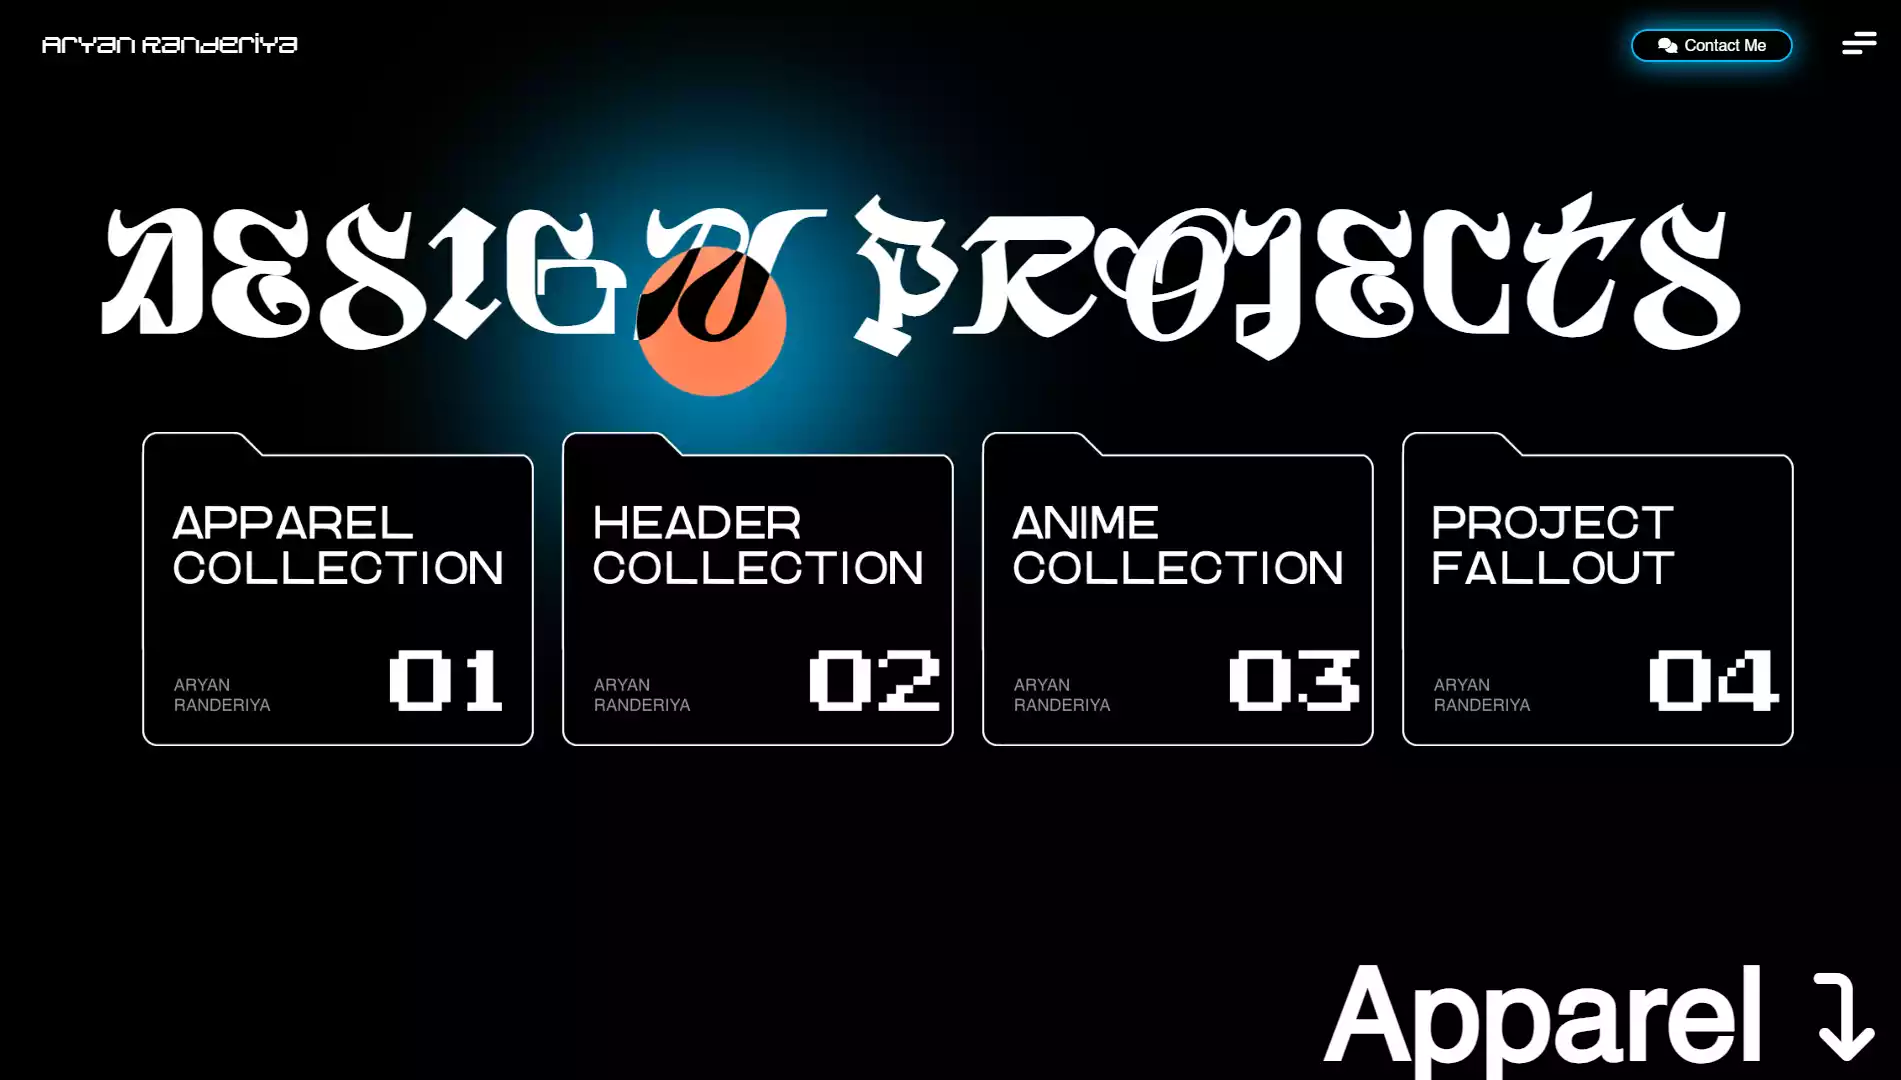
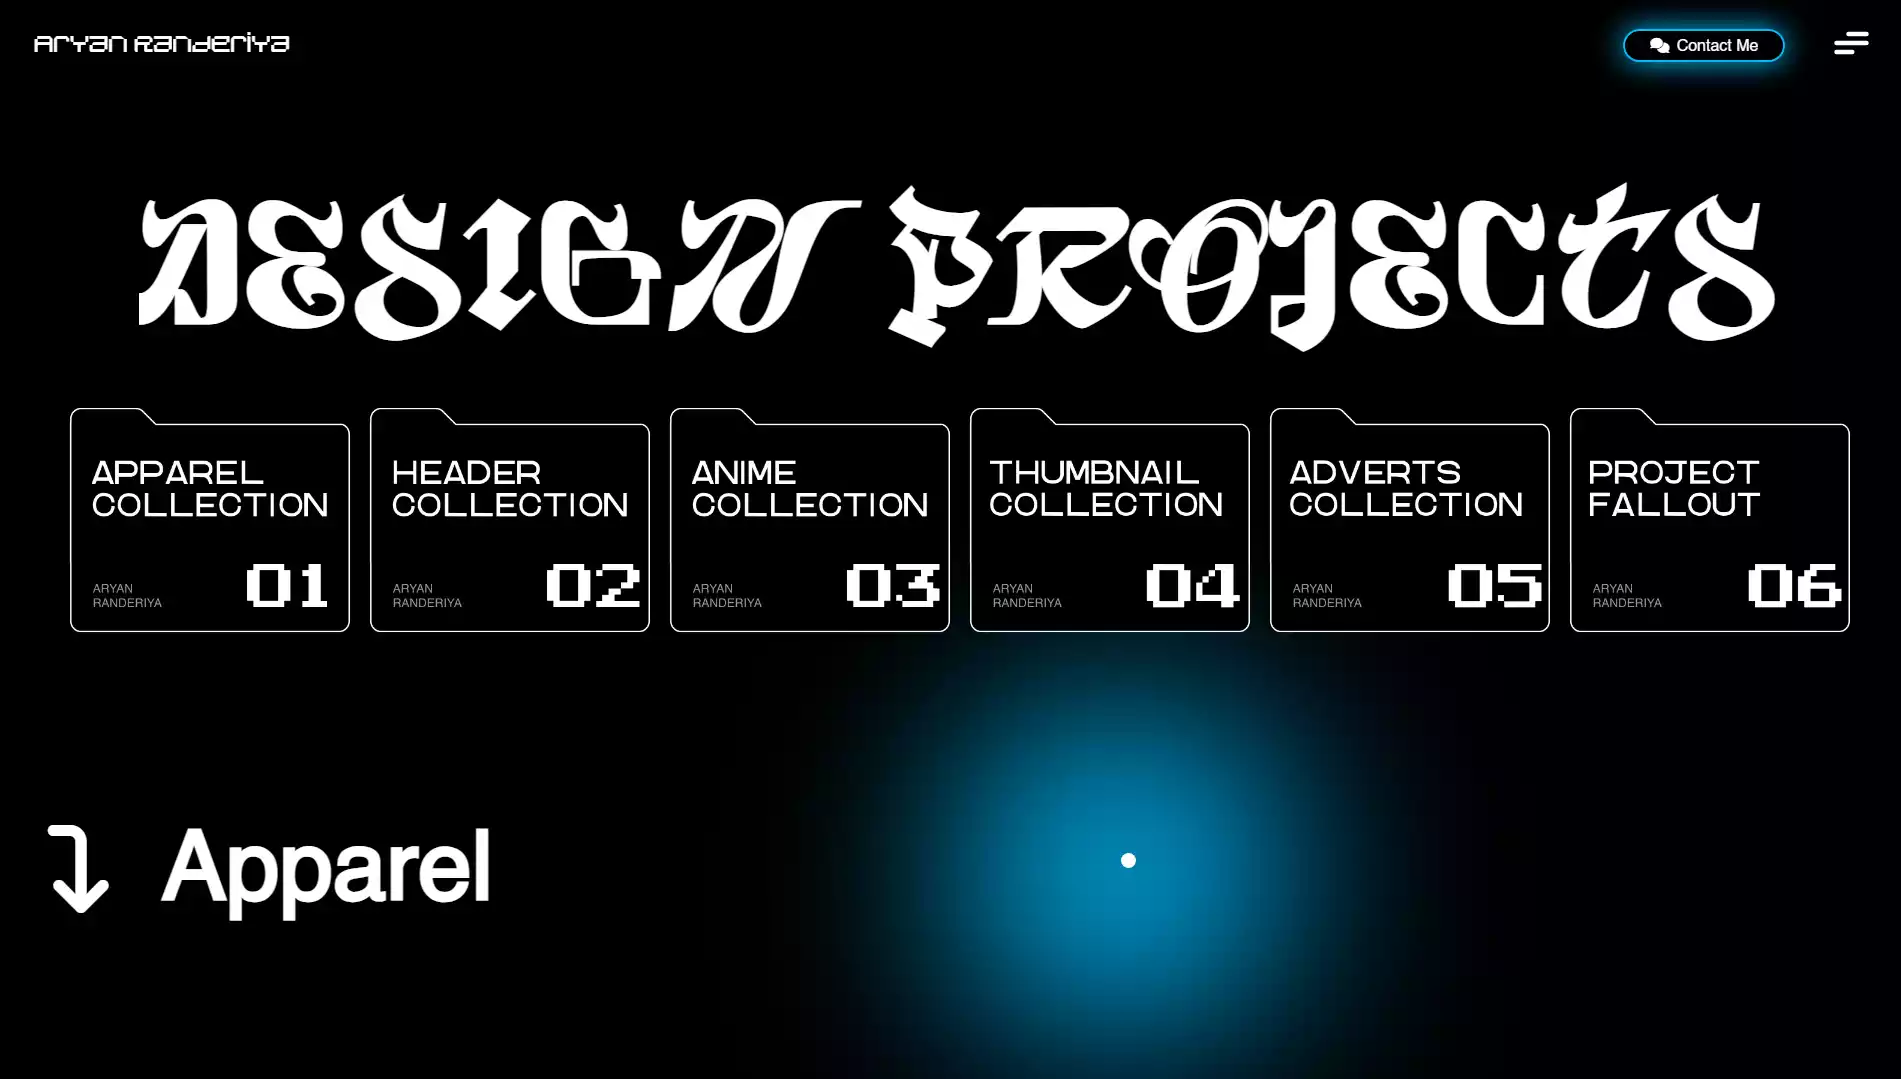
update 10 files

diff --git a/docs/contact.html b/docs/contact.html
@@ -16,7 +16,6 @@
     <script async src="https://cdnjs.cloudflare.com/ajax/libs/gsap/3.12.2/ScrollTrigger.min.js"></script>
     <script async src="https://cdnjs.cloudflare.com/ajax/libs/gsap/3.12.2/ScrollToPlugin.min.js"></script>
     <script async src="https://kit.fontawesome.com/2fafe620ef.js" crossorigin="anonymous"></script>
-    <script src="https://platform.linkedin.com/badges/js/profile.js" async defer type="text/javascript"></script>
 
     <link defer rel="stylesheet"
         href="https://fonts.googleapis.com/css2?family=Material+Symbols+Rounded:opsz,wght,FILL,GRAD@48,500,1,-25" />
@@ -109,7 +108,7 @@
                     <h5 class="social_text mail_text">aryan.k.randeriya@gmail.com</h5>
                 </a>
             </div>
-            
+
             <div class="social">
                 <span class="material-symbols-rounded icon">subdirectory_arrow_right</span>
                 <a href="https://www.linkedin.com/in/aryanranderiya">
@@ -256,6 +255,44 @@
 <script src="js/contact.js"></script>
 <script src="js/preloader.js"></script>
 <script src="https://web3forms.com/client/script.js" async defer></script>
-<!-- <script src="js/footer.js"></script> -->
+
+<script>
+    //! Hover Animation on Aryan Randeriya Fotoer Text
+
+    const defaultScale = 1;
+    const maxScale = 1.5;
+    const neighborScale = 1.2;
+
+    const wordContainers = document.querySelectorAll(
+        ".footer_bottom_name .bottom_name_container .word"
+    );
+
+    wordContainers.forEach((wordContainer) => {
+        const spans = wordContainer.querySelectorAll("span");
+
+        wordContainer.addEventListener("mouseover", (e) => {
+            const target = e.target;
+            const index = Array.from(spans).indexOf(target);
+
+            spans.forEach((span, i) => {
+                let scale = defaultScale;
+
+                if (i === index) {
+                    scale = maxScale;
+                } else if (i === index - 1 || i === index + 1) {
+                    scale = neighborScale;
+                }
+
+                span.style.transform = `scaleY(${scale})`;
+            });
+        });
+
+        wordContainer.addEventListener("mouseout", () => {
+            spans.forEach((span) => {
+                span.style.transform = `scaleY(${defaultScale})`;
+            });
+        });
+    });
+</script>
 
 </html>

diff --git a/docs/resume.html b/docs/resume.html
@@ -5,7 +5,16 @@
     <meta charset="UTF-8">
     <meta name="viewport" content="width=device-width, initial-scale=1.0">
     <title>My Resume</title>
-
+    <meta name="description" content="Aryan Ranedriya's Resume!">
+    <meta name="keywords"
+        content="Aryan Randeriya, Portfolio, Web Developer, Projects, Software Projects, Design Projects, Aryan Randeria, Graphic Designer">
+    <meta name="author" content="Aryan Randeriya">
+    <meta property="og:site_name" content="Aryan Randeriya | Portfolio">
+    <meta property="og:title" content="Aryan Randeriya's Portfolio">
+    <meta property="og:description" content="Here you can view all my Sofware Projects i've worked on!">
+    <meta property="og:url" content="https://www.aryanranderiya.com/SoftwareProjects">
+    <meta property="og:type" content="website">
+    <meta property="og:image" content="/media/ss_DesignProjects.webp">
     <link rel='stylesheet' type='text/css' href='css/cursor.css'>
     <link rel='stylesheet' type='text/css' href='css/resume.css'>
     <link rel='stylesheet' type='text/css' href='css/preloader.css'>

diff --git a/docs/DesignProjects.html b/docs/DesignProjects.html
@@ -4,6 +4,17 @@
 <head>
     <meta charset="UTF-8">
     <meta name="viewport" content="width=device-width, initial-scale=1.0">
+    <meta name="description" content="Here you can view all the Design Projects i've worked on!">
+    <meta name="keywords"
+        content="Aryan Randeriya, Portfolio, Web Developer, Projects, Software Projects, Design Projects, Aryan Randeria, Graphic Designer">
+    <meta name="author" content="Aryan Randeriya">
+    <meta property="og:site_name" content="Aryan Randeriya | Portfolio">
+    <meta property="og:title" content="Aryan Randeriya's Portfolio">
+    <meta property="og:description" content="Here you can view all my Sofware Projects i've worked on!">
+    <meta property="og:url" content="https://www.aryanranderiya.com/SoftwareProjects">
+    <meta property="og:type" content="website">
+    <meta property="og:image" content="/media/ss_DesignProjects.webp">
+
     <title>Design Projects</title>
     <link rel='stylesheet' type='text/css' href='css/design_projects.css'>
     <link rel='stylesheet' type='text/css' href='css/cursor.css'>

diff --git a/docs/SoftwareProjects.html b/docs/SoftwareProjects.html
@@ -5,6 +5,16 @@
     <meta charset="UTF-8" />
     <title>Software Projects</title>
     <meta name='viewport' content='width=device-width, initial-scale=1'>
+    <meta name="description" content="Here you can view all my Sofware Projects i've worked on!">
+    <meta name="keywords"
+        content="Aryan Randeriya, Portfolio, Web Developer, Projects, Software Projects, Design Projects, Aryan Randeria, Graphic Designer">
+    <meta name="author" content="Aryan Randeriya">
+    <meta property="og:site_name" content="Aryan Randeriya | Portfolio">
+    <meta property="og:title" content="Aryan Randeriya's Portfolio">
+    <meta property="og:description" content="Here you can view all my Sofware Projects i've worked on!">
+    <meta property="og:url" content="https://www.aryanranderiya.com/SoftwareProjects">
+    <meta property="og:type" content="website">
+    <meta property="og:image" content="/media/ss_SoftwareProjects.webp">
 
     <link rel='stylesheet' type='text/css' href='css/cursor.css'>
     <link rel='stylesheet' type='text/css' href='css/software_projects.css'>

diff --git a/docs/index.html b/docs/index.html
@@ -6,7 +6,8 @@
   <title>Aryan Randeriya | Portfolio</title>
   <meta name="description"
     content="Hello World. Welcome to Aryan Randeriya's Portfolio! Here I showcase Software Development & Graphic Design work i've previously worked on or am currently working on.">
-  <meta name="keywords" content="Aryan Randeriya, Portfolio, Web Developer, Projects">
+  <meta name="keywords"
+    content="Aryan Randeriya, Portfolio, Web Developer, Projects, Software Projects, Design Projects, Aryan Randeria, Graphic Designer">
   <meta name="author" content="Aryan Randeriya">
   <meta name='viewport' content='width=device-width, initial-scale=1'>
 

diff --git a/docs/js/design_projects.js b/docs/js/design_projects.js
@@ -62,8 +62,9 @@ document.addEventListener("DOMContentLoaded", function () {
   };
 
   btnScrollTop.addEventListener("click", () => {
-    document.body.scrollTop = 0;
-    document.documentElement.scrollTop = 0;
+    // document.body.scrollTop = 0;
+    // document.documentElement.scrollTop = 0;
+    window.scrollTo({ top: 0, behavior: "smooth" });
   });
 
   title.addEventListener(

diff --git a/docs/css/design_projects.css b/docs/css/design_projects.css
@@ -12,6 +12,7 @@ body {
   overflow: hidden;
   overflow-y: visible;
   scroll-snap-type: none !important;
+  scroll-behavior: smooth;
 }
 
 section {

diff --git a/docs/css/contact.css b/docs/css/contact.css
@@ -278,3 +278,7 @@ hr {
 .description.show {
   transform: translateY(0%);
 }
+
+.word {
+  transform: translateX(0%) !important;
+}
